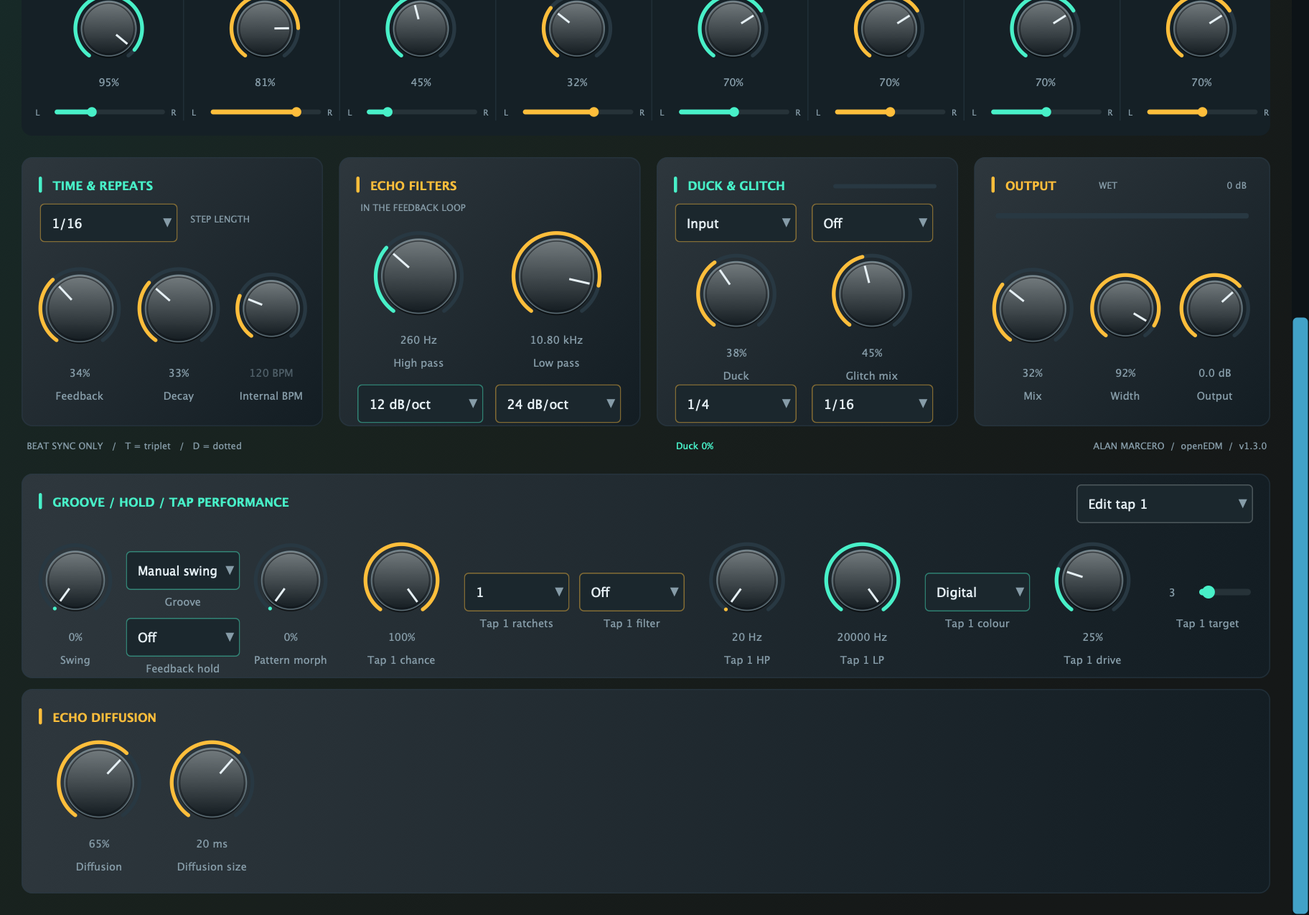
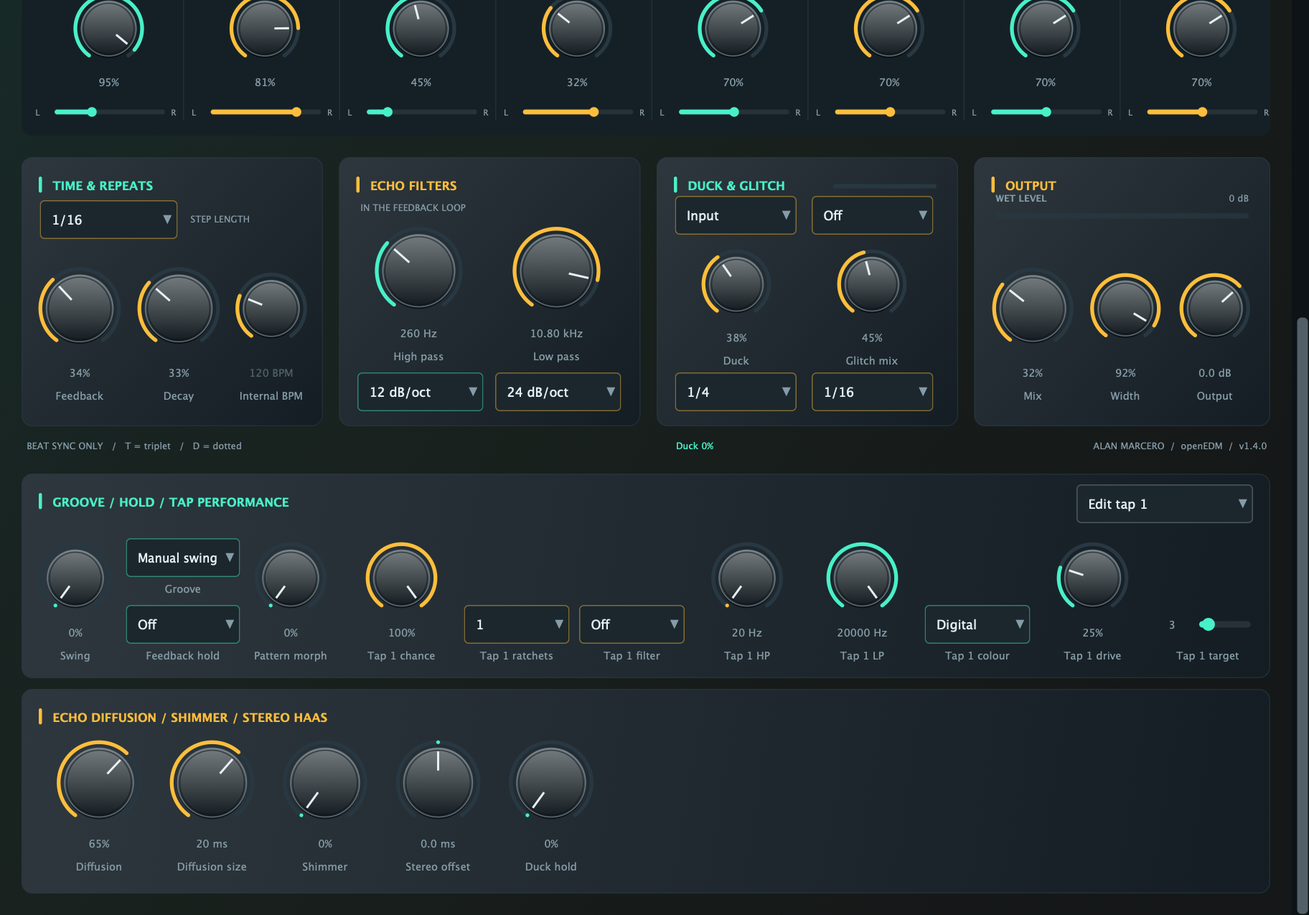
Release v1.4.0: 24 new presets (60 total), Shimmer, Haas Stereo Offset, Duck Hold, and UI uniformity

diff --git a/Source/Plugin/PluginEditor.cpp b/Source/Plugin/PluginEditor.cpp
@@ -66,8 +66,8 @@ void TapGrid::mouseUp(const juce::MouseEvent&) {
 DelayEditor::DelayEditor(DelayProcessor& p):AudioProcessorEditor(p),owner(p),grid(p) {
     setLookAndFeel(&look);reel=juce::Drawable::createFromImageData(BinaryData::echoreel_svg,BinaryData::echoreel_svgSize);
     viewport.setComponentID("editorViewport");addAndMakeVisible(viewport);
-    viewport.setViewedComponent(&content,false);viewport.setScrollBarsShown(true,true);
-    viewport.setScrollBarThickness(16);content.setSize(1200,1100);
+    viewport.setViewedComponent(&content,false);viewport.setScrollBarsShown(true,false);
+    viewport.setScrollBarThickness(12);content.setSize(1200,1100);
     for(int i=0;i<parameterCount;++i)makeControl(i);
     content.setSize(1200,1300);content.addAndMakeVisible(grid);content.addAndMakeVisible(preset);content.addAndMakeVisible(pattern);
     preset.setComponentID("preset");pattern.setComponentID("pattern");
@@ -126,7 +126,7 @@ void DelayEditor::makeControl(int i) {
         if(i==drive||i==motion||i==wobbleRate){c->setSliderStyle(juce::Slider::LinearHorizontal);c->setTextBoxStyle(juce::Slider::TextBoxRight,false,i==wobbleRate?58:38,22);c->setColour(juce::Slider::trackColourId,colour);c->setColour(juce::Slider::thumbColourId,colour);}
         if(pan){c->setSliderStyle(juce::Slider::LinearHorizontal);c->setTextBoxStyle(juce::Slider::NoTextBox,false,0,0);c->setColour(juce::Slider::trackColourId,colour);c->setColour(juce::Slider::thumbColourId,colour);}
         content.addAndMakeVisible(*c);sliders.push_back(std::make_unique<juce::AudioProcessorValueTreeState::SliderAttachment>(owner.parameters,spec.id,*c));
-        c->textFromValueFunction=[i,step,pan,unit=spec.unit](double v){if(step)return juce::String(static_cast<int>(v));if(pan)return std::abs(v)<.01?juce::String("C"):juce::String(static_cast<int>(std::round(std::abs(v))))+(v<0?" L":" R");if(i==highPass||i==lowPass)return v>=1000?juce::String(v/1000,2)+" kHz":juce::String(static_cast<int>(std::round(v)))+" Hz";if(i==wobbleRate)return juce::String(v,2)+" Hz";return (i==output?juce::String(std::abs(v)<.005?0:v,1):juce::String(static_cast<int>(std::round(v))))+(unit=="%"?"%":" "+unit);};
+        c->textFromValueFunction=[i,step,pan,unit=spec.unit](double v){if(step)return juce::String(static_cast<int>(v));if(pan)return std::abs(v)<.01?juce::String("C"):juce::String(static_cast<int>(std::round(std::abs(v))))+(v<0?" L":" R");if(i==highPass||i==lowPass)return v>=1000?juce::String(v/1000,2)+" kHz":juce::String(static_cast<int>(std::round(v)))+" Hz";if(i==wobbleRate)return juce::String(v,2)+" Hz";if(i==stereoOffset)return juce::String(std::abs(v)<.05?0:v,1)+" ms";return (i==output?juce::String(std::abs(v)<.005?0:v,1):juce::String(static_cast<int>(std::round(v))))+(unit=="%"?"%":" "+unit);};
         c->valueFromTextFunction=[i](const juce::String& t){const double value=t.getDoubleValue();return (i==highPass||i==lowPass)&&t.containsIgnoreCase("k")?value*1000:value;};
         c->updateText();
         c->setTooltip(spec.name+". Drag to adjust; double-click to reset. Host automatable.");controls[static_cast<std::size_t>(i)]=std::move(c);
@@ -142,6 +142,9 @@ void DelayEditor::makeControl(int i) {
         if(i==wobbleShape)tooltipClient->setTooltip("Tape wobble waveform: smooth, stepped, or deterministic random movement.");
         if(i==diffusion)tooltipClient->setTooltip("Smears each echo inside the feedback loop. Higher values make repeats denser.");
         if(i==diffusionSize)tooltipClient->setTooltip("Sets the time spacing of the diffusion stages. Short settings stay compact; longer settings sound broader.");
+        if(i==shimmer)tooltipClient->setTooltip("Octave-up pitch-shifted recirculation inside the feedback loop for lush shimmer echoes.");
+        if(i==stereoOffset)tooltipClient->setTooltip("Sub-millisecond to 20 ms inter-channel Haas timing offset on the wet stereo path.");
+        if(i==duckHold)tooltipClient->setTooltip("Holds and extends the ducking envelope so echoes stay tucked during fast phrases before blooming.");
         if(i==drive)tooltipClient->setTooltip("Saturation amount for Tape and BBD characters.");
         if(i==duckMode)tooltipClient->setTooltip("Beat: rhythmic wet ducking. Input: duck echoes while the incoming audio is loud. Rate sets recovery.");
         if(i==routing)tooltipClient->setTooltip("Stereo uses tap pan. Ping Pong alternates taps and crossfeeds each phrase. Mono collapses the wet branch.");
@@ -156,13 +159,16 @@ void DelayEditor::place(int id,juce::Rectangle<int> r,bool showLabel) {
 void DelayEditor::resized() {
     viewport.setBounds(getLocalBounds());
     selectedTap.setBounds(1000,900,164,36);
-    place(swing,{30,948,80,104});place(groove,{117,962,106,28});
-    place(freeze,{117,1024,106,28});place(patternMorph,{230,948,80,104});
+    place(swing,{30,948,80,100});place(groove,{117,950,106,36});
+    place(freeze,{117,1012,106,36});place(patternMorph,{230,948,80,100});
     for(int tap=0;tap<tapCount;++tap)for(int field=0;field<tapExtraCount;++field) {
         const int id=tapExtraStart+tap*tapExtraCount+field;
         const bool visible=tap==selectedTap.getSelectedId()-1;
         controls[static_cast<std::size_t>(id)]->setVisible(visible);labels[static_cast<std::size_t>(id)]->setVisible(visible);
-        if(visible)place(id,{324+field*107,(field==1||field==2||field==5||field==7)?982:948,98,(field==1||field==7)?36:((field==2||field==5)?28:104)});
+        if(visible) {
+            const bool isChoiceOrLinear=(field==1||field==2||field==5||field==7);
+            place(id,{324+field*107,isChoiceOrLinear?1012:948,98,isChoiceOrLinear?36:100});
+        }
     }
     prevPreset.setBounds(641,20,88,40);preset.setBounds(737,20,263,40);nextPreset.setBounds(1008,20,78,40);place(bypass,{1094,20,86,40},false);pattern.setBounds(645,104,195,36);grid.setBounds(39,149,801,220);
     place(routing,{896,220,132,36},false);place(character,{1040,220,124,36},false);
@@ -173,15 +179,16 @@ void DelayEditor::resized() {
         place(p,{x+2,397,66,36},false);place(p+1,{x+70,397,74,36},false);
         place(p+2,{x+26,438,88,99},false);place(p+3,{x+13,545,116,18},false);
     }
-    place(gridRate,{37,639,128,30},false);
+    place(gridRate,{37,636,128,36},false);
     place(feedback,{30,688,88,119});place(decay,{122,688,88,119});place(tempo,{213,688,78,119});
-    place(highPass,{338,659,102,117});place(lowPass,{466,659,102,117});
-    place(hpSlope,{332,807,117,28},false);place(lpSlope,{460,807,117,28},false);
-    place(duckMode,{627,639,113,29},false);place(glitch,{754,639,113,29},false);
-    place(duck,{634,680,100,108});place(glitchAmount,{760,680,100,108});
-    place(duckRate,{627,807,113,28},false);place(glitchRate,{754,807,113,28},false);
+    place(highPass,{338,655,102,115});place(lowPass,{466,655,102,115});
+    place(hpSlope,{332,796,117,36},false);place(lpSlope,{460,796,117,36},false);
+    place(duckMode,{627,632,113,36},false);place(glitch,{754,632,113,36},false);
+    place(duck,{634,676,100,98});place(glitchAmount,{760,676,100,98});
+    place(duckRate,{627,796,113,36},false);place(glitchRate,{754,796,113,36},false);
     place(mix,{916,688,87,119});place(width,{1007,688,77,119});place(output,{1090,688,77,119});
     place(diffusion,{46,1132,92,112});place(diffusionSize,{151,1132,92,112});
+    place(shimmer,{256,1132,92,112});place(stereoOffset,{361,1132,92,112});place(duckHold,{466,1132,92,112});
 }
 void DelayEditor::paint(juce::Graphics& g) {g.fillAll(theme::kBackground);}
 void DelayEditor::paintContent(juce::Graphics& g) {
@@ -228,11 +235,11 @@ void DelayEditor::paintContent(juce::Graphics& g) {
         g.fillRoundedRectangle(774, 621, 96.f * duckAtten, 4, 2);
     }
     panel(g,{905,596,275,250},"OUTPUT",theme::kAccentOut);
-    panel(g,{20,1090,1160,190},"ECHO DIFFUSION",theme::kAccentB);
+    panel(g,{20,1090,1160,190},"ECHO DIFFUSION / SHIMMER / STEREO HAAS",theme::kAccentB);
     const float peak=juce::jlimit(0.f,1.f,owner.outputPeak.load());
-    g.setColour(theme::kTrack);g.fillRoundedRectangle(925,648,235,5,2);
+    g.setColour(theme::kPanelEdge.withAlpha(.7f));g.fillRoundedRectangle(925,648,235,5,2);
     g.setColour(theme::kAccentA);g.fillRoundedRectangle(925,648,235*peak,5,2);
-    text(g,"WET",{1021,612,80,20},10,theme::kTextDim);text(g,"0 dB",{1109,612,49,20},10,theme::kTextDim,false,juce::Justification::centredRight);
+    text(g,"WET LEVEL",{925,624,100,20},10,theme::kTextDim,true);text(g,"0 dB",{1109,624,51,20},10,theme::kTextDim,false,juce::Justification::centredRight);
     const float reduction=1-owner.duckMeter.load();
     text(g,"Duck "+juce::String(static_cast<int>(std::round(reduction*100)))+"%",{628,854,150,20},10,theme::kAccentFx);
     text(g,"BEAT SYNC ONLY   /   T = triplet   /   D = dotted",{25,854,470,20},10,theme::kTextDim);

diff --git a/Source/Core/DelayEngine.cpp b/Source/Core/DelayEngine.cpp
@@ -76,7 +76,7 @@ void DelayEngine::prepare(double sr) {
 }
 void DelayEngine::reset() {
     write=wetWrite=capture=valid=wetValid=0;phase=0;lastSlice=-1;initialized=false;
-    diffusionWrite=0;wobblePhase=0;diffusion=0;diffusionSize=12;
+    diffusionWrite=0;wobblePhase=0;shimmerPhase=0;diffusion=0;diffusionSize=12;shimmer=0;stereoOffset=0;duckHold=0;
     envelope=0;lastDuck=1;tone={};held={};holdCounter=0;transition=0;
     for(auto& f:hp)f.clear();for(auto& f:lp)f.clear();
     for(auto& pair:tapHp)for(auto& f:pair)f.clear();
@@ -130,11 +130,13 @@ void DelayEngine::process(float* left,float* right,int frames,const Settings& s,
     const float targetGlitch=s.glitch==Glitch::off?0:clamp(s.glitchAmount,0,1);
     const float targetDrive=clamp(s.drive,0,1),targetMotion=clamp(s.motion,0,1);
     const float targetDiffusion=clamp(s.diffusion,0,1),targetDiffusionSize=clamp(s.diffusionSize,2,30);
+    const float targetShimmer=clamp(s.shimmer,0,1),targetStereoOffset=clamp(s.stereoOffset,-20,20),targetDuckHold=clamp(s.duckHold,0,1);
     const int fadeLength=std::max(1,static_cast<int>(sampleRate*.025));
     if(!initialized) {
         delay=oldDelay=tapeDelay=nextDelay;previousLoop=oldLoop=tapeLoop=loop;gain=targetGain;pan=targetPan;
         feedback=targetFeedback;mix=targetMix;width=targetWidth;output=targetOutput;duck=targetDuck;
-        glitchMix=targetGlitch;drive=targetDrive;motion=targetMotion;diffusion=targetDiffusion;diffusionSize=targetDiffusionSize;freezeMix=s.freeze?1.f:0.f;initialized=true;
+        glitchMix=targetGlitch;drive=targetDrive;motion=targetMotion;diffusion=targetDiffusion;diffusionSize=targetDiffusionSize;
+        shimmer=targetShimmer;stereoOffset=targetStereoOffset;duckHold=targetDuckHold;freezeMix=s.freeze?1.f:0.f;initialized=true;
     } else if(transition==0 && (nextDelay!=delay||std::abs(loop-previousLoop)>.00001)) {
         oldDelay=delay;oldLoop=previousLoop;delay=nextDelay;previousLoop=loop;transition=fadeLength;
     }
@@ -146,7 +148,6 @@ void DelayEngine::process(float* left,float* right,int frames,const Settings& s,
     const double tapeSmooth=1-std::exp(-1/(sampleRate*.12));
     const float toneCoefficient=static_cast<float>(1-std::exp(-2*pi*(s.character==Character::bbd?2600:6500)/sampleRate));
     const float attack=static_cast<float>(std::exp(-1/(sampleRate*.005)));
-    const float release=static_cast<float>(std::exp(-1/(beatSamples*rate(s.duckRate))));
     for(int i=0;i<frames;++i) {
         const float dryL=finite(left[i]),dryR=right?finite(right[i]):dryL;
         const auto approach=[smooth](float& value,float target){value+=(target-value)*smooth;};
@@ -155,6 +156,7 @@ void DelayEngine::process(float* left,float* right,int frames,const Settings& s,
         if(std::abs(freezeMix-freezeTarget)<=freezeTolerance)freezeMix=freezeTarget;
         approach(duck,targetDuck);approach(glitchMix,targetGlitch);approach(drive,targetDrive);approach(motion,targetMotion);
         approach(diffusion,targetDiffusion);approach(diffusionSize,targetDiffusionSize);
+        approach(shimmer,targetShimmer);approach(stereoOffset,targetStereoOffset);approach(duckHold,targetDuckHold);
         const float blend=transition>0?1-static_cast<float>(transition)/fadeLength:1;
         const bool tape=s.character==Character::tape;
         tapeLoop+=(loop-tapeLoop)*tapeSmooth;
@@ -165,6 +167,18 @@ void DelayEngine::process(float* left,float* right,int frames,const Settings& s,
             const float a=read(buffer,newer);return transition>0?read(buffer,older)*(1-blend)+a*blend:a;
         };
         float fbL=delayed(0,previousLoop,oldLoop,tapeLoop),fbR=delayed(1,previousLoop,oldLoop,tapeLoop);
+        if(shimmer>1.e-4f&&freezeMix<1) {
+            const double grainSamples=std::max(16.,sampleRate*.042);
+            const double phA=fraction(shimmerPhase),phB=fraction(shimmerPhase+.5);
+            const float winA=static_cast<float>(.5-.5*std::cos(2*pi*phA));
+            const float winB=static_cast<float>(.5-.5*std::cos(2*pi*phB));
+            const double dA=std::max(1.,previousLoop-(1.-phA)*grainSamples);
+            const double dB=std::max(1.,previousLoop-(1.-phB)*grainSamples);
+            const float octL=read(ring[0],dA)*winA+read(ring[0],dB)*winB;
+            const float octR=read(ring[1],dA)*winA+read(ring[1],dB)*winB;
+            fbL=fbL*(1.f-.35f*shimmer)+octL*(.65f*shimmer);
+            fbR=fbR*(1.f-.35f*shimmer)+octR*(.65f*shimmer);
+        }
         if(freezeMix>=1) {fbL=read(ring[0],frozenLoop);fbR=read(ring[1],frozenLoop);}
         else if(freezeMix>0) {fbL+=(read(ring[0],frozenLoop)-fbL)*freezeMix;fbR+=(read(ring[1],frozenLoop)-fbR)*freezeMix;}
         if(s.routing==Routing::pingPong)std::swap(fbL,fbR);
@@ -266,16 +280,31 @@ void DelayEngine::process(float* left,float* right,int frames,const Settings& s,
             wet[ch]+=(effected-wet[ch])*glitchMix;
         }
         wetWrite=(wetWrite+1)%wetHistory[0].size();wetValid=std::min(wetValid+1,wetHistory[0].size());
-        const float peak=std::max(std::abs(dryL),std::abs(dryR)),coeff=peak>envelope?attack:release;
+        if(std::abs(stereoOffset)>1.e-3f&&s.routing!=Routing::mono) {
+            const double offsetSamples=std::clamp(std::abs(static_cast<double>(stereoOffset))*sampleRate*.001,0.,static_cast<double>(wetHistory[0].size()-3));
+            const auto whole=static_cast<std::size_t>(offsetSamples);const float part=static_cast<float>(offsetSamples-whole);
+            const int delayedCh=stereoOffset>0?1:0;
+            const auto& hist=wetHistory[static_cast<std::size_t>(delayedCh)];
+            const auto idxA=(wetWrite+hist.size()-1-whole)%hist.size(),idxB=(idxA+hist.size()-1)%hist.size();
+            const float valA=whole<wetValid?hist[idxA]:0.f,valB=whole+1<wetValid?hist[idxB]:0.f;
+            wet[static_cast<std::size_t>(delayedCh)]=valA+(valB-valA)*part;
+        }
+        const float releaseHoldScale=1.f+duckHold*3.f;
+        const float heldRelease=static_cast<float>(std::exp(-1/(beatSamples*rate(s.duckRate)*releaseHoldScale)));
+        const float peak=std::max(std::abs(dryL),std::abs(dryR)),coeff=peak>envelope?attack:heldRelease;
         envelope=peak+(envelope-peak)*coeff;
         const double duckPhase=fraction(phase/rate(s.duckRate)+1.e-9);
-        lastDuck=s.inputDuck?std::exp(-duck*envelope*24):1-duck*static_cast<float>(std::pow(1-duckPhase,3));
+        const double holdFrac=duckHold*.55;
+        const double shapedPhase=duckPhase<=holdFrac?0.:(duckPhase-holdFrac)/std::max(1.e-4,1.-holdFrac);
+        lastDuck=s.inputDuck?std::exp(-duck*envelope*24):1-duck*static_cast<float>(std::pow(1-shapedPhase,3));
         const float mid=(wet[0]+wet[1])*.5f,side=(wet[0]-wet[1])*.5f*width;
         wetL=(mid+side)*lastDuck;wetR=(mid-side)*lastDuck;
         if(s.routing==Routing::mono)wetL=wetR=mid*lastDuck;
         if(right){left[i]=(dryL*(1-mix)+wetL*mix)*output;right[i]=(dryR*(1-mix)+wetR*mix)*output;}
         else left[i]=(dryL*(1-mix)+(wetL+wetR)*.5f*mix)*output;
-        phase+=increment;wobblePhase+=clamp(s.wobbleRate,.05f,8.f)/sampleRate;if(transition>0)--transition;
+        phase+=increment;wobblePhase+=clamp(s.wobbleRate,.05f,8.f)/sampleRate;
+        shimmerPhase+=1./std::max(16.,sampleRate*.042);
+        if(transition>0)--transition;
     }
 }
 }

diff --git a/Source/Plugin/PluginProcessor.cpp b/Source/Plugin/PluginProcessor.cpp
@@ -136,7 +136,31 @@ const Program bank[]{
     {"Space / Eight Windows",  7,4,Routing::stereo,Character::bbd,44,36,230,6100,{{drive,30},{diffusion,56},{decay,39},{tapExtra(6,2),1},{tapExtra(6,4),3500}}},
     {"Space / Half Light",     2,9,Routing::stereo,Character::tape,55,40,220,4700,{{motion,47},{wobbleShape,1},{diffusion,49},{diffusionSize,18}}},
     {"Space / Night Ferry",    8,14,Routing::mono,Character::tape,49,35,185,3900,{{drive,45},{motion,38},{diffusion,61},{diffusionSize,22}}},
-    {"Space / Vanishing Line", 5,8,Routing::stereo,Character::digital,42,43,440,9300,{{glitch,3},{glitchRate,7},{glitchAmount,26},{diffusion,55},{decay,52}}}
+    {"Space / Vanishing Line", 5,8,Routing::stereo,Character::digital,42,43,440,9300,{{glitch,3},{glitchRate,7},{glitchAmount,26},{diffusion,55},{decay,52}}},
+    {"Lead / Halo Cascade",    3,2,Routing::pingPong,Character::digital,46,35,310,13200,{{shimmer,42},{diffusion,28},{diffusionSize,15},{duck,36},{duckMode,1},{duckHold,30}}},
+    {"Lead / Neon Ribbon",     4,5,Routing::stereo,Character::tape,40,33,280,9400,{{motion,26},{wobbleRate,.85f},{stereoOffset,6.5f},{duck,40},{duckMode,1}}},
+    {"Lead / Crystal Spire",   1,6,Routing::stereo,Character::digital,52,37,420,14500,{{shimmer,58},{diffusion,38},{diffusionSize,20},{width,98}}},
+    {"Lead / Velvet Pluck",    2,4,Routing::pingPong,Character::bbd,36,30,220,6800,{{drive,29},{stereoOffset,-4.5f},{duck,32},{duckHold,25}}},
+    {"Groove / Offbeat Snap",  5,3,Routing::pingPong,Character::digital,28,31,350,9100,{{groove,1},{duck,48},{duckHold,45},{stereoOffset,3.5f}}},
+    {"Groove / Garage Step",   6,2,Routing::stereo,Character::tape,31,29,290,7100,{{swing,44},{drive,35},{motion,18},{tapExtra(2,1),1}}},
+    {"Groove / Bassline Tuck", 8,7,Routing::mono,Character::bbd,22,27,160,4200,{{drive,52},{duck,64},{duckMode,1},{duckHold,55}}},
+    {"Groove / Polyrhythm Bounce",11,4,Routing::stereo,Character::digital,35,32,390,10400,{{groove,2},{patternMorph,35},{stereoOffset,-7.f},{tapExtra(4,0),75}}},
+    {"Dub / King Tubby Vault", 8,8,Routing::stereo,Character::tape,72,41,130,3200,{{drive,64},{motion,44},{wobbleRate,.32f},{diffusion,54},{diffusionSize,24}}},
+    {"Dub / Reggae Siren",     0,5,Routing::pingPong,Character::bbd,68,38,240,4600,{{drive,58},{shimmer,22},{diffusion,35},{stereoOffset,8.f}}},
+    {"Dub / Concrete Tank",    2,10,Routing::stereo,Character::loFi,59,36,210,3900,{{decay,42},{diffusion,62},{diffusionSize,26},{duck,22}}},
+    {"Dub / Smoked Tape",      9,4,Routing::stereo,Character::tape,63,37,175,3450,{{drive,60},{motion,52},{wobbleShape,3},{stereoOffset,-5.5f}}},
+    {"Breaks / Amen Chopper",  7,1,Routing::stereo,Character::digital,29,34,540,11200,{{glitch,2},{glitchRate,2},{glitchAmount,48},{duck,35},{duckHold,40}}},
+    {"Breaks / Jungle Rattler",10,3,Routing::pingPong,Character::loFi,34,33,490,8200,{{glitch,1},{glitchRate,1},{glitchAmount,36},{tapExtra(1,1),3},{tapExtra(3,1),2}}},
+    {"Breaks / Hoovers & Horns",4,5,Routing::stereo,Character::tape,41,35,360,7800,{{drive,46},{motion,28},{shimmer,26},{stereoOffset,9.f}}},
+    {"Breaks / Neuro Scatter", 6,0,Routing::pingPong,Character::digital,27,32,680,12800,{{groove,2},{glitch,3},{glitchRate,3},{glitchAmount,42},{stereoOffset,-6.f}}},
+    {"Glitch / Granular Cloud",3,2,Routing::stereo,Character::digital,49,45,390,11900,{{glitch,3},{glitchRate,2},{glitchAmount,62},{shimmer,48},{diffusion,44}}},
+    {"Glitch / Data Moshing",  8,1,Routing::pingPong,Character::loFi,38,42,450,7400,{{glitch,2},{glitchRate,0},{glitchAmount,80},{wobbleShape,4},{motion,40}}},
+    {"Glitch / Buffer Flip",   11,4,Routing::stereo,Character::digital,44,41,320,9600,{{glitch,3},{glitchRate,5},{glitchAmount,70},{stereoOffset,11.f},{duckHold,35}}},
+    {"Glitch / Cyber Ratchet", 5,2,Routing::pingPong,Character::bbd,36,40,510,8600,{{glitch,1},{glitchRate,2},{glitchAmount,68},{tapExtra(1,1),4},{tapExtra(2,1),3}}},
+    {"Space / Astral Shimmer", 7,12,Routing::stereo,Character::digital,64,46,340,13600,{{shimmer,74},{diffusion,82},{diffusionSize,28},{stereoOffset,12.f},{duck,42},{duckMode,1}}},
+    {"Space / Cathedral Freeze",1,14,Routing::pingPong,Character::tape,60,44,260,8400,{{shimmer,52},{diffusion,78},{diffusionSize,30},{motion,30},{wobbleRate,.16f}}},
+    {"Space / Nebula Drift",   5,9,Routing::stereo,Character::bbd,56,42,210,5900,{{shimmer,36},{diffusion,68},{diffusionSize,24},{drive,34},{stereoOffset,-9.5f}}},
+    {"Space / Borealis Veil",  6,13,Routing::pingPong,Character::digital,58,45,380,12200,{{shimmer,65},{diffusion,72},{diffusionSize,27},{duck,50},{duckMode,1},{duckHold,48}}}
 };
 }
 
@@ -199,7 +223,7 @@ void DelayProcessor::setStateInformation(const void* data,int size) {
                 juce::ValueTree child("PARAM");child.setProperty("id",spec.id,nullptr);child.setProperty("value",spec.initial,nullptr);state.appendChild(child,nullptr);
             } else if(matches!=1)return;
         }
-        parameters.replaceState(state);oldBank.store(static_cast<int>(state.getProperty("programBank",0))!=1);program.store(juce::jlimit(0,35,static_cast<int>(state.getProperty("program",0))));resetPending.store(true);
+        parameters.replaceState(state);oldBank.store(static_cast<int>(state.getProperty("programBank",0))!=1);program.store(juce::jlimit(0,getNumPrograms()-1,static_cast<int>(state.getProperty("program",0))));resetPending.store(true);
     }
 }
 }

diff --git a/Tests/PluginTests.cpp b/Tests/PluginTests.cpp
@@ -50,10 +50,12 @@ static void legacyAndPerformanceState(){
     require(std::abs(p.values[mix]->load()-73)<.0001f,"Legacy state rejected after adding parameters");
     p.setPlainValue(swing,50);p.setPlainValue(patternMorph,75);p.setPlainValue(freeze,1);
     p.setPlainValue(diffusion,35);p.setPlainValue(diffusionSize,24);p.setPlainValue(wobbleRate,2.5f);p.setPlainValue(wobbleShape,3);
+    p.setPlainValue(shimmer,45);p.setPlainValue(stereoOffset,8.5f);p.setPlainValue(duckHold,60);
     p.setPlainValue(tapExtraStart,35);p.setPlainValue(tapExtraStart+1,3);
     const auto settings=p.settings();
     require(settings.swing==.5f&&settings.morph==.75f&&settings.freeze,"Performance parameters disconnected");
     require(std::abs(settings.diffusion-.35f)<.0001f&&std::abs(settings.diffusionSize-24)<.0001f&&std::abs(settings.wobbleRate-2.5f)<.0001f&&settings.wobbleShape==WobbleShape::randomWalk,"Diffusion or wobble parameters disconnected");
+    require(std::abs(settings.shimmer-.45f)<.0001f&&std::abs(settings.stereoOffset-8.5f)<.0001f&&std::abs(settings.duckHold-.6f)<.0001f,"Shimmer, stereo offset, or duck hold parameters disconnected");
     require(std::abs(settings.taps[0].probability-.35f)<.0001f&&settings.taps[0].ratchets==4,"Tap performance parameters disconnected");
     clean(p);p.setPlainValue(tapExtraStart+7,16);p.setPlainValue(patternMorph,100);
     require(p.getTailLengthSeconds()>=8,"Host tail excludes morphed pattern");
@@ -93,7 +95,7 @@ static void scrollableControls() {
                 require(viewport->getViewArea().contains(control->getBounds()),"New tap control cannot scroll fully into view");
             }
         }
-        for(const int id:std::array<int,8>{swing,groove,freeze,patternMorph,diffusion,diffusionSize,wobbleRate,wobbleShape}) {
+        for(const int id:std::array<int,11>{swing,groove,freeze,patternMorph,diffusion,diffusionSize,wobbleRate,wobbleShape,shimmer,stereoOffset,duckHold}) {
             auto* control=find(*editor,parameterSpecs()[static_cast<std::size_t>(id)].id);
             viewport->setViewPosition(control->getX(),control->getY());
             require(viewport->getViewArea().contains(control->getBounds()),"Performance control cannot scroll fully into view");
@@ -132,7 +134,7 @@ static void bankAudio() {
         if(writer) require(writer->writeFromAudioSampleBuffer(wave,0,frames),"Impulse export failed");
         require(signatures.insert(signature).second,"Two factory programs produced identical wet echoes");
     }
-    std::cout<<"36 distinct impulse responses at 160 BPM, first echoes "<<minimum<<" to "<<maximum<<" s\n";
+    std::cout<<"60 distinct impulse responses at 160 BPM, first echoes "<<minimum<<" to "<<maximum<<" s\n";
     require(patternNames().size()==12,"Rhythm template count changed");
     std::set<std::array<int,tapCount>> shapes;
     p.setPlainValue(feedback,64);
@@ -169,7 +171,7 @@ void ui(const juce::File& destination){
     auto* previous=dynamic_cast<juce::TextButton*>(find(*e,"prevPreset"));
     auto* next=dynamic_cast<juce::TextButton*>(find(*e,"nextPreset"));
     require(browser&&previous&&next,"Missing preset browser controls");
-    previous->onClick();require(p.getCurrentProgram()==35,"Previous failed to wrap");
+    previous->onClick();require(p.getCurrentProgram()==59,"Previous failed to wrap");
     next->onClick();require(p.getCurrentProgram()==0,"Next failed to wrap");
     browser->setSelectedId(13,juce::sendNotificationSync);
     require(p.getCurrentProgram()==12,"Preset menu did not update the processor");
@@ -179,7 +181,7 @@ void ui(const juce::File& destination){
     require(initialUnit,"Initial knob value is missing its unit");
     for(int i=0;i<parameterCount;++i){const auto& spec=parameterSpecs()[static_cast<std::size_t>(i)];auto* c=find(*e,spec.id);require(c!=nullptr,("Missing control: "+spec.id).toRawUTF8());if(auto* s=dynamic_cast<juce::Slider*>(c))s->setValue(spec.min+(spec.max-spec.min)*.6,juce::sendNotificationSync);else if(auto* box=dynamic_cast<juce::ComboBox*>(c))box->setSelectedId(box->getNumItems(),juce::sendNotificationSync);else if(auto* button=dynamic_cast<juce::Button*>(c))button->setToggleState(true,juce::sendNotificationSync);else require(false,"Unknown control");}
     require(p.values[mix]->load()==60,"Mix knob disconnected");require(p.values[baseCount+1]->load()==10,"Tap step disconnected");require(p.values[hpSlope]->load()==4,"Slope selector disconnected");
-    require(p.getNumPrograms()==36,"EDM factory bank must contain 36 programs");
+    require(p.getNumPrograms()==60,"EDM factory bank must contain 60 programs");
     require(rateNames().size()==16,"EDM grid must expose 16 host-synced divisions");
     juce::AudioBuffer<float> b(2,256);b.clear();juce::MidiBuffer midi;
     Host host;host.info.setBpm(128);host.info.setPpqPosition(1.35);host.info.setIsPlaying(true);p.setPlayHead(&host);

diff --git a/Tests/DelayTests.cpp b/Tests/DelayTests.cpp
@@ -192,9 +192,26 @@ void settledHoldInput() {
     held.l[15000]=1;held.engine.process(held.l.data()+15000,held.r.data()+15000,33000,s,{400,63000./7200,true});
     check(held.l[15900]>.99f,"Released hold does not restore input");
 }
+void shimmerHaasDuckHold() {
+    auto s=clean();s.rate=0;s.feedback=.6f;
+    Render plain(8000,12000),shimmered(8000,12000);
+    for(std::size_t i=0;i<400;++i)plain.l[i]=shimmered.l[i]=std::sin(static_cast<float>(i)*.15f)*.5f;
+    plain.run(s);
+    s.shimmer=.8f;shimmered.run(s);
+    check(plain.l!=shimmered.l&&energy(shimmered.l,1500)>0,"Shimmer pitch shift does not alter feedback loop");
+    s=clean();s.rate=0;s.stereoOffset=10.f;
+    Render haas(8000,4000);haas.l[0]=haas.r[0]=1;haas.run(s);
+    check(haas.l[500]>.9f&&haas.r[580]>.9f,"Stereo Haas offset does not delay right wet channel by 10 ms");
+    s=clean();s.rate=7;s.duck=1.f;
+    Render noHold(8000,8000),withHold(8000,8000);
+    std::fill(noHold.l.begin(),noHold.l.end(),.5f);std::fill(withHold.l.begin(),withHold.l.end(),.5f);
+    noHold.run(s);
+    s.duckHold=.8f;withHold.run(s);
+    check(energy(withHold.l,4000)<energy(noHold.l,4000),"Duck hold does not extend ducking attenuation");
+}
 int main() {
     int failed=0;
-    const std::pair<const char*,void(*)()> cases[]={{"sustained settled hold",sustainedHold},{"settled hold input rejection",settledHoldInput},{"tap probability/ratchets",tapPerformance},{"tap tone",tapTone},{"groove/morph",grooveMorph},{"diffusion",diffusion},{"wobble rate",wobbleRate},{"wobble shape",wobbleShape},{"freeze",freezeLoop},{"fast timing automation",fastTimeAutomation},{"stutter seams",stutterEdges},{"filter automation",filterAutomation},{"extended host-synced grid",extendedGridTiming},{"beat timing",timing},{"routing",routing},{"taps",taps},{"dry/reset",dryAndReset},{"filters",filters},{"effects",effects},{"stability/block size",stable}};
+    const std::pair<const char*,void(*)()> cases[]={{"shimmer, stereo Haas, and duck hold",shimmerHaasDuckHold},{"sustained settled hold",sustainedHold},{"settled hold input rejection",settledHoldInput},{"tap probability/ratchets",tapPerformance},{"tap tone",tapTone},{"groove/morph",grooveMorph},{"diffusion",diffusion},{"wobble rate",wobbleRate},{"wobble shape",wobbleShape},{"freeze",freezeLoop},{"fast timing automation",fastTimeAutomation},{"stutter seams",stutterEdges},{"filter automation",filterAutomation},{"extended host-synced grid",extendedGridTiming},{"beat timing",timing},{"routing",routing},{"taps",taps},{"dry/reset",dryAndReset},{"filters",filters},{"effects",effects},{"stability/block size",stable}};
     for(const auto& [name,test]:cases)try{test();std::cout<<"PASS "<<name<<'\n';}catch(const std::exception& e){++failed;std::cerr<<"FAIL "<<name<<": "<<e.what()<<'\n';}
     return failed?1:0;
 }

diff --git a/Source/Plugin/Parameters.cpp b/Source/Plugin/Parameters.cpp
@@ -57,6 +57,9 @@ const std::array<ParameterSpec,parameterCount>& parameterSpecs() {
         a[diffusionSize]={"diffusionSize","Diffusion size",2,30,12,1,"","ms"};
         a[wobbleRate]={"wobbleRate","Wobble rate",.05f,8,.5f,.4f,"","Hz"};
         a[wobbleShape]={"wobbleShape","Wobble shape",0,4,0,1,"Sine|Triangle|Square|Random walk|Sample & hold",""};
+        a[shimmer]={"shimmer","Shimmer",0,100,0,1,"","%"};
+        a[stereoOffset]={"stereoOffset","Stereo offset",-20,20,0,1,"","ms"};
+        a[duckHold]={"duckHold","Duck hold",0,100,0,1,"","%"};
         return a;
     }();return specs;
 }
@@ -78,7 +81,7 @@ Settings readSettings(const ParameterValues& v) {
     Settings s;s.swing=get(swing)*.01f;s.groove=static_cast<int>(get(groove));s.freeze=get(freeze)>.5f;s.morph=get(patternMorph)*.01f;s.rate=static_cast<int>(get(gridRate));s.routing=static_cast<Routing>(static_cast<int>(get(routing)));s.character=static_cast<Character>(static_cast<int>(get(character)));
     s.feedback=get(feedback)*.01f;s.decay=get(decay)*.01f;s.highPass=get(highPass);s.lowPass=get(lowPass);s.hpSlope=static_cast<int>(get(hpSlope));s.lpSlope=static_cast<int>(get(lpSlope));
     s.drive=get(drive)*.01f;s.motion=get(motion)*.01f;s.wobbleRate=get(wobbleRate);s.wobbleShape=static_cast<WobbleShape>(static_cast<int>(get(wobbleShape)));
-    s.diffusion=get(diffusion)*.01f;s.diffusionSize=get(diffusionSize);s.duck=get(duck)*.01f;s.inputDuck=get(duckMode)>.5f;s.duckRate=static_cast<int>(get(duckRate));
+    s.diffusion=get(diffusion)*.01f;s.diffusionSize=get(diffusionSize);s.shimmer=get(shimmer)*.01f;s.stereoOffset=get(stereoOffset);s.duckHold=get(duckHold)*.01f;s.duck=get(duck)*.01f;s.inputDuck=get(duckMode)>.5f;s.duckRate=static_cast<int>(get(duckRate));
     s.glitch=static_cast<Glitch>(static_cast<int>(get(glitch)));s.glitchRate=static_cast<int>(get(glitchRate));s.glitchAmount=get(glitchAmount)*.01f;
     s.mix=get(mix)*.01f;s.width=get(width)*.01f;s.outputDb=get(output);
     for(int i=0;i<tapCount;++i){const int p=baseCount+i*4;s.taps[static_cast<std::size_t>(i)]={get(p)>.5f,static_cast<int>(get(p+1)),get(p+2)*.01f,get(p+3)*.01f};}

diff --git a/Source/Core/DelayEngine.h b/Source/Core/DelayEngine.h
@@ -24,6 +24,7 @@ struct Settings {
     float feedback = .35f, decay = .3f, highPass = 120, lowPass = 9000;
     int hpSlope = 2, lpSlope = 2;
     float drive = .25f, motion = .2f, wobbleRate = .5f, diffusion = 0, diffusionSize = 12, duck = 0;
+    float shimmer = 0, stereoOffset = 0, duckHold = 0;
     WobbleShape wobbleShape = WobbleShape::sine;
     bool inputDuck = false;
     int duckRate = 7, glitchRate = 2;
@@ -56,8 +57,8 @@ private:
     std::array<Filter,2> hp,lp;
     std::array<std::array<Filter,2>,tapCount> tapHp,tapLp;
     std::array<std::array<float,2>,tapCount> tapTone{};
-    float freezeMix=0, diffusion=0, diffusionSize=12;
-    double frozenLoop=1,wobblePhase=0;bool wasFrozen=false;
+    float freezeMix=0, diffusion=0, diffusionSize=12, shimmer=0, stereoOffset=0, duckHold=0;
+    double frozenLoop=1,wobblePhase=0,shimmerPhase=0;bool wasFrozen=false;
     std::array<float,2> tone{}, held{};
     std::array<double,tapCount> delay{}, oldDelay{}, tapeDelay{};
     std::array<float,tapCount> gain{},pan{};

diff --git a/Source/Plugin/Parameters.h b/Source/Plugin/Parameters.h
@@ -6,7 +6,7 @@ enum Param { gridRate, routing, character, feedback, decay, highPass, hpSlope, l
 enum PerformanceParam { swing=baseCount+tapCount*4, groove, freeze, patternMorph, tapExtraStart };
 constexpr int tapExtraCount=8;
 constexpr int styleParamStart=tapExtraStart+tapCount*tapExtraCount;
-enum StyleParam { diffusion=styleParamStart, diffusionSize, wobbleRate, wobbleShape, parameterCount };
+enum StyleParam { diffusion=styleParamStart, diffusionSize, wobbleRate, wobbleShape, shimmer, stereoOffset, duckHold, parameterCount };
 struct ParameterSpec { juce::String id,name; float min,max,initial,skew; juce::String choices,unit; };
 const std::array<ParameterSpec,parameterCount>& parameterSpecs();
 juce::AudioProcessorValueTreeState::ParameterLayout makeLayout();

diff --git a/Source/Plugin/DelayLookAndFeel.cpp b/Source/Plugin/DelayLookAndFeel.cpp
@@ -35,6 +35,8 @@ DelayLookAndFeel::DelayLookAndFeel() {
     setColour(juce::TextEditor::textColourId, theme::kText);
     setColour(juce::TextEditor::highlightColourId, theme::kTrack);
     setColour(juce::CaretComponent::caretColourId, theme::kText);
+    setColour(juce::ScrollBar::thumbColourId, theme::kPanelEdge.brighter(0.25f));
+    setColour(juce::ScrollBar::backgroundColourId, juce::Colours::transparentBlack);
 }
 
 void DelayLookAndFeel::drawRotarySlider(juce::Graphics& g, int x, int y, int width, int height, float sliderPos,

diff --git a/README.md b/README.md
@@ -1,4 +1,4 @@
-# openEDMDelay v1.3.0
+# openEDMDelay v1.4.0
 
 Build beat-synced echoes from eight taps. Use it for rhythmic repeats, stereo movement, and glitch transitions.
 
